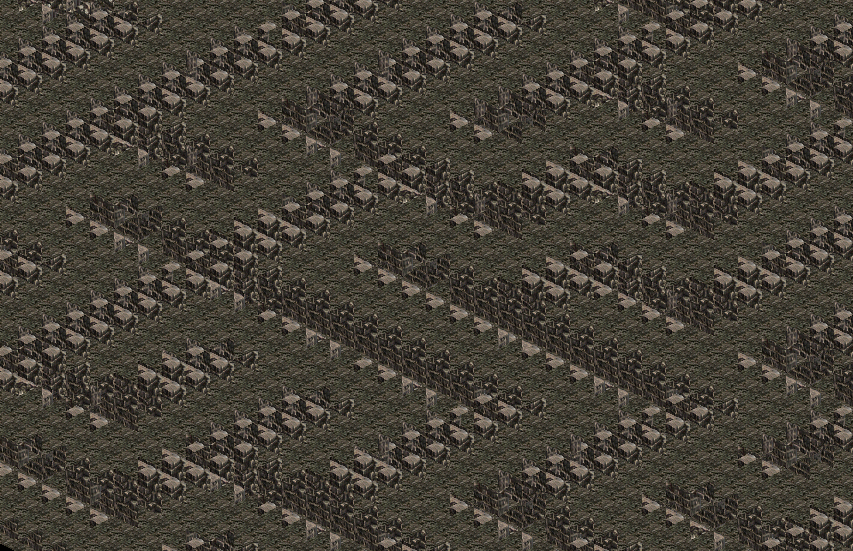
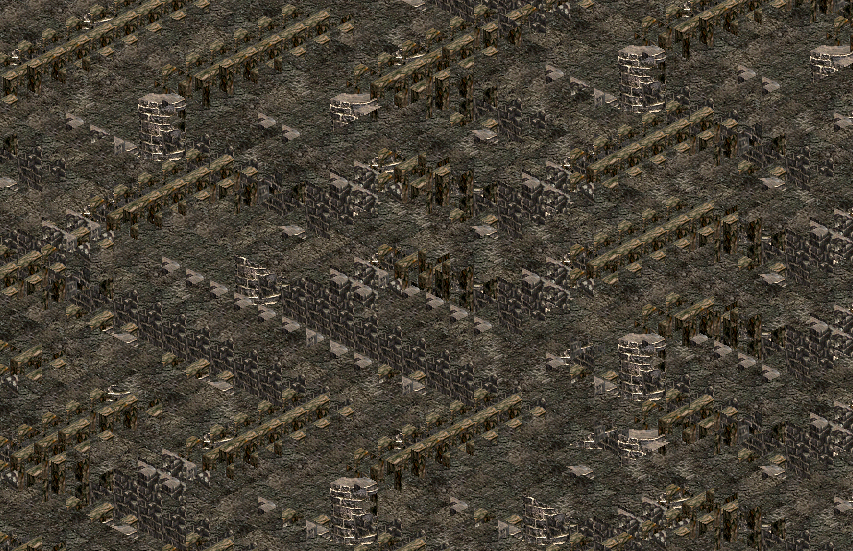
recursos: paredes por orientación y piso variado en el .mg (MG03)
El .mg pasa a MG03, que lleva una paleta de piso y una estampa de pared por
clase de orientación. decodificar_mg:
- piso: elige el tile de la paleta según el índice de cada celda (menos
  repetitivo que un piso único).
- pared: usa la estampa de la clase de la celda (horizontal / vertical /
  esquina / interior), recortada a las celdas-pared (la roca no invade los
  pasillos).

La clasificación la hace el generador (generador_mapas/) según a qué lados da
el pasillo; el cliente solo expande. Así las paredes horizontales y verticales
usan roca distinta y el piso deja de verse monótono.

Evidencia: docs/capturas/mapa_generado_laberinto_iso.png.

Claude-Session: https://claude.ai/code/session_01X8Yxunv6F27gcuvFFFaAA8

diff --git a/src/recursos/mapa.cpp b/src/recursos/mapa.cpp
@@ -94,19 +94,26 @@ bool decodificar_s32(Bytes datos, int base_x, int base_y, SegmentoMapa& s) {
 
 bool decodificar_mg(Bytes datos, int base_x, int base_y, SegmentoMapa& s) {
     constexpr int N = CELDAS_SEGMENTO;
+    constexpr int N_CLASES = 4;  // horizontal, vertical, esquina, interior (ver generador_mapas)
     LectorBinario l{datos};
-    if (l.u8_() != 'M' || l.u8_() != 'G' || l.u8_() != '0' || l.u8_() != '2') return false;
+    if (l.u8_() != 'M' || l.u8_() != 'G' || l.u8_() != '0' || l.u8_() != '3') return false;
     l.u16_();  // base_x del archivo
     l.u16_();  // base_y del archivo (se usa el pasado por parámetro, como en decodificar_s32)
-    const u32 piso_izq = l.u32_(), piso_der = l.u32_();
-    // Estampa de pared: piezas relativas (dx en medias celdas, dy en celdas) de un chunk de roca real.
-    const u16 n_estampa = l.u16_();
-    std::vector<TileObjetoMapa> estampa;
-    estampa.reserve(n_estampa);
-    for (u16 i = 0; i < n_estampa; ++i) {
-        const u8 dx = l.u8_(), dy = l.u8_(), capa = l.u8_();
-        const u32 tile = l.u32_();
-        estampa.push_back({dx, dy, capa, 0, tile});
+    // Paleta de piso: varios pares (izq, der); el byte de cada celda-piso elige uno (menos repetitivo).
+    const u16 n_piso = l.u16_();
+    if (n_piso == 0 || l.error) return false;
+    std::vector<u32> piso_izq(n_piso), piso_der(n_piso);
+    for (u16 i = 0; i < n_piso; ++i) { piso_izq[i] = l.u32_(); piso_der[i] = l.u32_(); }
+    // Una estampa de pared por clase de orientación (piezas relativas: dx medias celdas, dy celdas).
+    std::vector<TileObjetoMapa> estampa[N_CLASES];
+    for (int c = 0; c < N_CLASES; ++c) {
+        const u16 n = l.u16_();
+        estampa[c].reserve(n);
+        for (u16 i = 0; i < n; ++i) {
+            const u8 dx = l.u8_(), dy = l.u8_(), capa = l.u8_();
+            const u32 tile = l.u32_();
+            estampa[c].push_back({dx, dy, capa, 0, tile});
+        }
     }
     if (l.error) return false;
     s.base_x = static_cast<u16>(base_x);
@@ -116,29 +123,39 @@ bool decodificar_mg(Bytes datos, int base_x, int base_y, SegmentoMapa& s) {
     s.tiles_objetos.clear();
     s.objetos.clear();
     s.portales.clear();
-    // Primera pasada: leer la grilla (0=piso, 1=pared), el suelo uniforme y la colisión.
-    std::vector<u8> pared(static_cast<size_t>(N) * N);
-    for (size_t i = 0; i < pared.size(); ++i) {
-        s.suelo[i * 2] = piso_izq;
-        s.suelo[i * 2 + 1] = piso_der;
-        pared[i] = l.u8_() ? 1 : 0;
-        if (pared[i]) {
+    // Primera pasada: leer la grilla. 1 byte/celda: bit7 = pared; bits0-6 = índice de piso (celda-piso)
+    // o clase de pared (celda-pared). Suelo y colisión.
+    std::vector<u8> cel(static_cast<size_t>(N) * N);
+    for (size_t i = 0; i < cel.size(); ++i) {
+        const u8 b = l.u8_();
+        cel[i] = b;
+        if (b & 0x80) {  // pared
             s.atributos[i * 2] = 1;
             s.atributos[i * 2 + 1] = 1;
+            s.suelo[i * 2] = piso_izq[0];  // piso bajo la pared (casi no se ve)
+            s.suelo[i * 2 + 1] = piso_der[0];
+        } else {
+            const u16 p = (b & 0x7F) < n_piso ? (b & 0x7F) : 0;
+            s.suelo[i * 2] = piso_izq[p];
+            s.suelo[i * 2 + 1] = piso_der[p];
         }
     }
     if (l.error) return false;
-    // Segunda pasada: en cada celda-pared, estampar la roca, pero SOLO las piezas que caen sobre otra
-    // celda-pared (máscara). Así la roca no invade los pasillos y la estructura (laberinto) se lee.
+    // Segunda pasada: en cada celda-pared, estampar la roca de SU clase, pero SOLO las piezas que caen
+    // sobre otra celda-pared (máscara). Así la roca no invade los pasillos y la estructura se lee.
     // Cada celda es su propio objeto, para que la oclusión del jugador sea local.
+    auto es_pared = [&](int x, int y) { return x >= 0 && x < N && y >= 0 && y < N && (cel[static_cast<size_t>(y) * N + x] & 0x80); };
     for (int ly = 0; ly < N; ++ly) {
         for (int lx = 0; lx < N; ++lx) {
-            if (!pared[static_cast<size_t>(ly) * N + lx] || estampa.empty()) continue;
+            if (!es_pared(lx, ly)) continue;
+            const int clase = cel[static_cast<size_t>(ly) * N + lx] & 0x7F;
+            const std::vector<TileObjetoMapa>& est = estampa[clase < N_CLASES ? clase : 0];
+            if (est.empty()) continue;
             const u32 inicio = static_cast<u32>(s.tiles_objetos.size());
             u8 x0 = 63, y0 = 63, x1 = 0, y1 = 0;
-            for (const TileObjetoMapa& e : estampa) {
+            for (const TileObjetoMapa& e : est) {
                 const int cx = lx + e.x / 2, cy = ly + e.y;  // celda donde cae la pieza
-                if (cx < 0 || cx >= N || cy < 0 || cy >= N || !pared[static_cast<size_t>(cy) * N + cx]) continue;
+                if (!es_pared(cx, cy)) continue;
                 const u8 px = static_cast<u8>(lx * 2 + e.x), py = static_cast<u8>(cy);
                 s.tiles_objetos.push_back({px, py, e.capa, 0, e.tile});
                 x0 = std::min<u8>(x0, px / 2); x1 = std::max<u8>(x1, px / 2);

diff --git a/tests/test_recursos.cpp b/tests/test_recursos.cpp
@@ -144,33 +144,35 @@ TEST_CASE("Mapa 2005: atributos del .s32 coinciden con el mapa del servidor" * d
     CHECK(coinciden * 100 / total >= 95);
 }
 
-TEST_CASE("Mapa generado .mg: piso uniforme, colisión y la estampa de pared por celda bloqueada") {
-    // Bytes fijos, sin instalación: MG02 + piso + estampa de 2 piezas + grilla 64×64 todo piso salvo (2,3).
+TEST_CASE("Mapa generado .mg: paleta de piso, colisión y estampa de pared por clase") {
+    // Bytes fijos, sin instalación: MG03 + paleta de 1 piso + 4 estampas (clase 0 con 2 piezas) +
+    // grilla 64×64 todo piso (índice 0) salvo (2,3) que es pared de clase 0.
     auto u16le = [](std::vector<u8>& b, u16 v) { b.push_back(v & 0xFF); b.push_back(v >> 8); };
     auto u32le = [](std::vector<u8>& b, u32 v) { for (int i = 0; i < 4; ++i) b.push_back((v >> (8 * i)) & 0xFF); };
-    std::vector<u8> b = {'M', 'G', '0', '2'};
+    std::vector<u8> b = {'M', 'G', '0', '3'};
     u16le(b, 0x8000);        // base_x del archivo
     u16le(b, 0x8000);        // base_y
-    u32le(b, 0x0009c8aeu);   // piso izq
-    u32le(b, 0x0009c8afu);   // piso der
-    u16le(b, 2);             // estampa: 2 piezas
-    b.insert(b.end(), {0, 0, 16}); u32le(b, 0x0000101eu);  // pieza dx=0 dy=0 capa=16
-    b.insert(b.end(), {1, 0, 16}); u32le(b, 0x0000101fu);  // pieza dx=1 dy=0 capa=16
+    u16le(b, 1);             // paleta de piso: 1 par
+    u32le(b, 0x0009c8aeu); u32le(b, 0x0009c8afu);
+    u16le(b, 2);             // clase 0 (horizontal): 2 piezas
+    b.insert(b.end(), {0, 0, 16}); u32le(b, 0x0000101eu);
+    b.insert(b.end(), {1, 0, 16}); u32le(b, 0x0000101fu);
+    for (int c = 1; c < 4; ++c) u16le(b, 0);  // clases 1-3 vacías
     for (int ly = 0; ly < 64; ++ly)
         for (int lx = 0; lx < 64; ++lx)
-            b.push_back(lx == 2 && ly == 3 ? 1 : 0);  // una sola pared
+            b.push_back(lx == 2 && ly == 3 ? 0x80 : 0);  // (2,3) pared clase 0; resto piso índice 0
 
     SegmentoMapa s;
     REQUIRE(decodificar_mg(b, 0x8000, 0x8000, s));
     CHECK(s.base_x == 0x8000);
     CHECK(s.base_y == 0x8000);
-    // Piso uniforme en toda celda.
+    // Piso de la paleta (índice 0) en una celda de piso.
     CHECK(s.suelo_en(10, 10, 0) == 0x0009c8aeu);
     CHECK(s.suelo_en(10, 10, 1) == 0x0009c8afu);
-    // Colisión: la celda (2,3) bloquea (bit0 de ambas mitades); una celda de piso no.
+    // Colisión: la celda (2,3) bloquea; una celda de piso no.
     CHECK(((s.atributo_en(2, 3, 0) & 1) && (s.atributo_en(2, 3, 1) & 1)));
     CHECK_FALSE(((s.atributo_en(10, 10, 0) & 1) && (s.atributo_en(10, 10, 1) & 1)));
-    // La estampa (2 piezas) se expande en la celda (2,3): dx se suma a lx*2, dy a ly.
+    // La estampa de la clase 0 (2 piezas) se expande en la celda-pared (2,3).
     REQUIRE(s.tiles_objetos.size() == 2);
     REQUIRE(s.objetos.size() == 1);
     CHECK(s.objetos[0].cantidad == 2);
